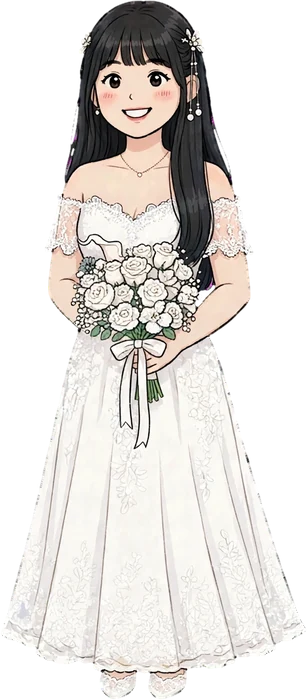
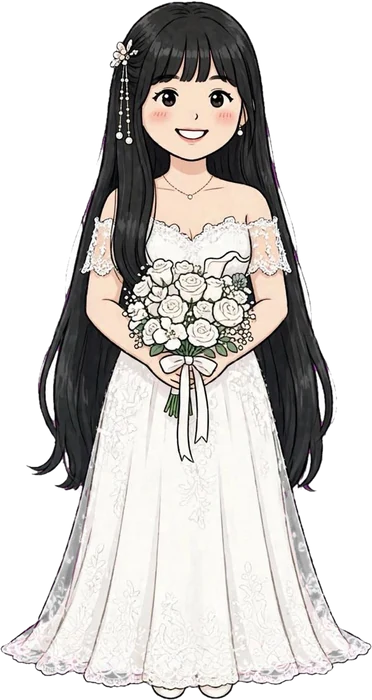
Add files via upload
edit bride photo

diff --git a/index.html b/index.html
@@ -522,7 +522,7 @@ try{var _l=localStorage.getItem('inv-lang');document.documentElement.dataset.lan
     
     <div class="orn" aria-hidden="true"><span class="orn-fl" aria-hidden="true"></span></div>
     <div class="cast">
-      <div class="pic-wrap b"><img class="pic" src="img/bride.webp" width="307" height="700" alt="Bride Khew Jia Chen / 新娘邱佳倩" loading="lazy" decoding="async"></div>
+      <div class="pic-wrap b"><img class="pic" src="img/bride.webp" width="372" height="700" alt="Bride Khew Jia Chen / 新娘邱佳倩" loading="lazy" decoding="async"></div>
       <span class="vname zh" aria-hidden="true"><span>邱</span><span>佳</span><span>倩</span></span>
       <span class="xi" aria-hidden="true">囍</span>
       <span class="vname zh" aria-hidden="true"><span>涂</span><span>伟</span><span>顺</span></span>
